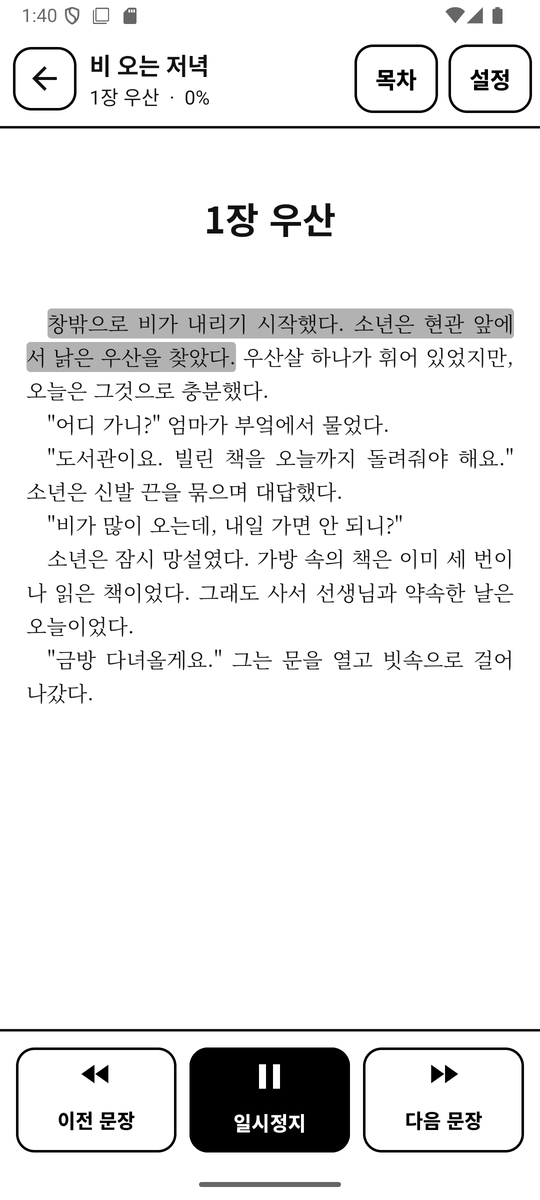
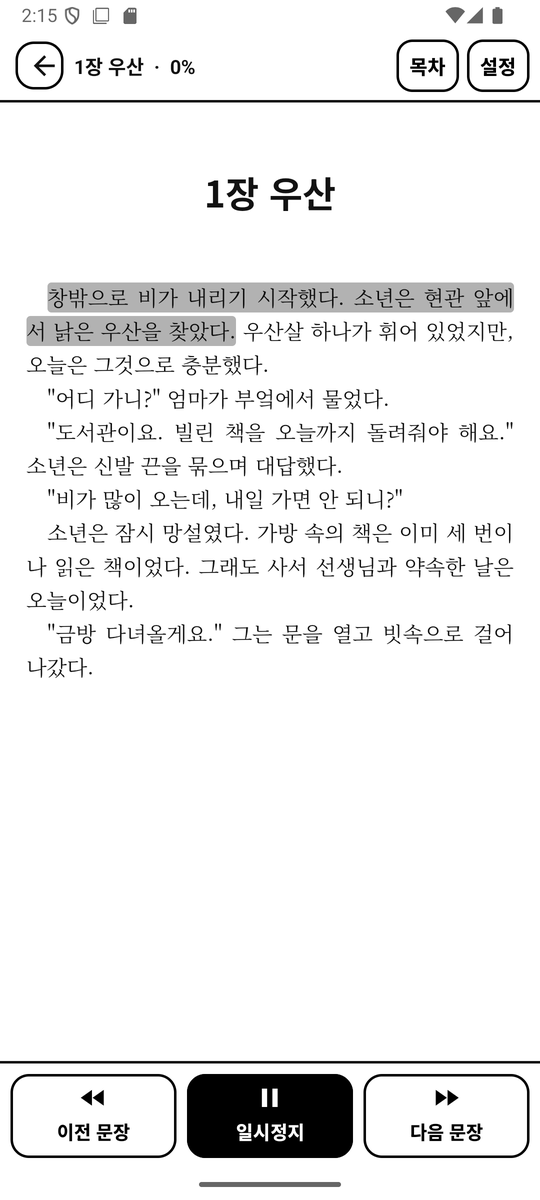
리더: 한 줄 위쪽 바, 들을 때만 재생 바, 스크롤 휠로 넘김, 버튼 정렬 점검, 0.1.3
- 위쪽 바를 72dp 두 줄에서 52dp 한 줄로(← · 장과 진행률 · 듣기 · 목차 · 설정), 책 제목은 뺌
- 아래 재생 바는 재생 중에만 보여 눈으로 읽을 때 본문이 화면 아래까지. 듣기는 위쪽 바로,
  모델을 불러오는 동안 "준비 중…"
- 일시정지하면 하이라이트를 지우고, 직접 넘긴 페이지를 읽던 문장으로 되돌리지 않음
- 페이지 키·방향키는 포커스와 상관없이(막대 버튼 사이를 옮겨 다니지 않게), 스크롤 휠·회전 다이얼·
  마우스 휠(ACTION_SCROLL)도 한 쪽씩 넘김. 한 번 돌릴 때 여러 쪽 넘어가지 않게 250ms에 한 쪽
- 버튼 정렬: 확인 창 버튼이 쌓일 때 붙던 것에 간격, "동의하고 고르기"로 줄여 한 줄에. 확인 창 제목 굵게.
  목차의 지금 장은 앞의 ▶ 대신 굵게 + 끝에 "읽는 중"(줄 시작이 어긋나던 것). 위쪽 바 양옆 여백 8dp
- 문서: 리더·확인 창 스크린샷 12장과 대표 이미지, 설명 갱신

diff --git a/app/src/main/java/app/voicereader/ReaderActivity.kt b/app/src/main/java/app/voicereader/ReaderActivity.kt
@@ -4,16 +4,19 @@ import android.content.res.ColorStateList
 import android.graphics.Color
 import android.media.AudioManager
 import android.os.Bundle
+import android.os.SystemClock
 import android.view.ActionMode
 import android.view.KeyEvent as AndroidKeyEvent
 import android.view.Menu
 import android.view.MenuItem
+import android.view.MotionEvent
 import android.view.View
 import android.widget.LinearLayout
 import android.widget.TextView
 import androidx.appcompat.app.AppCompatActivity
 import androidx.core.graphics.ColorUtils
 import androidx.core.view.WindowInsetsControllerCompat
+import androidx.core.view.isVisible
 import androidx.lifecycle.Lifecycle
 import androidx.lifecycle.lifecycleScope
 import androidx.lifecycle.repeatOnLifecycle
@@ -42,6 +45,16 @@ import org.readium.r2.shared.util.Url
 private val SPEEDS = listOf(0.5, 0.75, 1.0, 1.25, 1.5, 1.75, 2.0)
 private val PAUSES = listOf(60, 150, 320) // ms of silence between sentences: short, normal, long
 private val THEMES = listOf(Theme.LIGHT, Theme.SEPIA, Theme.DARK)
+/** Page keys, and scroll wheels that send arrow keys: true turns forward. */
+private val PAGE_KEYS = mapOf(
+    AndroidKeyEvent.KEYCODE_PAGE_DOWN to true, AndroidKeyEvent.KEYCODE_DPAD_DOWN to true,
+    AndroidKeyEvent.KEYCODE_DPAD_RIGHT to true, AndroidKeyEvent.KEYCODE_NAVIGATE_NEXT to true,
+    AndroidKeyEvent.KEYCODE_SYSTEM_NAVIGATION_DOWN to true,
+    AndroidKeyEvent.KEYCODE_PAGE_UP to false, AndroidKeyEvent.KEYCODE_DPAD_UP to false,
+    AndroidKeyEvent.KEYCODE_DPAD_LEFT to false, AndroidKeyEvent.KEYCODE_NAVIGATE_PREVIOUS to false,
+    AndroidKeyEvent.KEYCODE_SYSTEM_NAVIGATION_UP to false,
+)
+
 private val MEDIA_KEYS = setOf(
     AndroidKeyEvent.KEYCODE_HEADSETHOOK, AndroidKeyEvent.KEYCODE_MEDIA_PLAY, AndroidKeyEvent.KEYCODE_MEDIA_PAUSE,
     AndroidKeyEvent.KEYCODE_MEDIA_PLAY_PAUSE, AndroidKeyEvent.KEYCODE_MEDIA_NEXT, AndroidKeyEvent.KEYCODE_MEDIA_PREVIOUS,
@@ -58,6 +71,7 @@ class ReaderActivity : AppCompatActivity() {
     private val app get() = application as App
     private lateinit var navigator: EpubNavigatorFragment
     private lateinit var topBar: View
+    private lateinit var listen: MaterialButton
 
     /** Adds "발음 고치기" to the text selection menu, next to Copy: long-press a word, fix how it is read. */
     private val selectionActions = object : ActionMode.Callback {
@@ -99,7 +113,6 @@ class ReaderActivity : AppCompatActivity() {
         setContentView(R.layout.reader)
         navigator = supportFragmentManager.findFragmentById(R.id.navigator) as EpubNavigatorFragment
         topBar = findViewById(R.id.topBar)
-        findViewById<TextView>(R.id.bookTitle).text = app.book?.title
         applyPageTheme(app.readerPrefs.theme ?: Theme.LIGHT)
         app.warmUpVoice()
 
@@ -107,13 +120,17 @@ class ReaderActivity : AppCompatActivity() {
         findViewById<View>(R.id.toc).setOnClickListener { showToc() }
         findViewById<View>(R.id.settings).setOnClickListener { showSettings() }
 
-        val play = findViewById<MaterialButton>(R.id.play)
+        listen = findViewById(R.id.listen)
+        val player = findViewById<View>(R.id.player)
+        val playerRule = findViewById<View>(R.id.playerRule)
         val chapter = findViewById<TextView>(R.id.chapter)
-        play.setOnClickListener { togglePlay() }
+        listen.setOnClickListener { togglePlay() }
+        findViewById<View>(R.id.play).setOnClickListener { togglePlay() }
         findViewById<View>(R.id.prev).setOnClickListener { app.tts.value?.skipToPreviousUtterance() }
         findViewById<View>(R.id.next).setOnClickListener { app.tts.value?.skipToNextUtterance() }
 
-        // Taps near the edges and the device's page keys turn pages, without animation. The bars never move.
+        // Taps near the edges turn pages, without animation (page keys and the scroll wheel: dispatchKeyEvent and
+        // dispatchGenericMotionEvent below).
         navigator.addInputListener(DirectionalNavigationAdapter(navigator, animatedTransition = false))
 
         if (savedInstanceState == null && intent.getBooleanExtra(AUTOPLAY, false) && app.tts.value == null) {
@@ -122,14 +139,16 @@ class ReaderActivity : AppCompatActivity() {
 
         lifecycleScope.launch {
             repeatOnLifecycle(Lifecycle.State.STARTED) {
+                val playing = app.tts.flatMapLatest { it?.playback ?: flowOf(null) }
+                    .map { it?.playWhenReady == true }
+                    .distinctUntilChanged()
                 launch {
-                    app.tts.flatMapLatest { it?.playback ?: flowOf(null) }
-                        .map { it?.playWhenReady == true }
-                        .distinctUntilChanged()
-                        .collect { playing ->
-                            play.setIconResource(if (playing) R.drawable.ic_pause else R.drawable.ic_play)
-                            play.text = if (playing) "일시정지" else "듣기"
-                        }
+                    // The player only while listening, so reading by eye gets the whole height; 듣기 sits in the top bar.
+                    playing.collect {
+                        player.isVisible = it
+                        playerRule.isVisible = it
+                        listen.isVisible = !it
+                    }
                 }
                 launch {
                     navigator.currentLocator.collect { locator ->
@@ -144,7 +163,8 @@ class ReaderActivity : AppCompatActivity() {
                 // A jump into another chapter first lands wherever that chapter was pre-laid-out (e.g. its
                 // last page), so re-sync once the navigator reports the new chapter.
                 val chapters = navigator.currentLocator.map { it.href }.distinctUntilChanged()
-                combine(utterances, chapters) { utterance, _ -> utterance }
+                // Only while playing: a paused session neither marks a sentence nor pulls the page back to it.
+                combine(utterances, chapters, playing) { utterance, _, on -> utterance.takeIf { on } }
                     .collect { utterance ->
                         val highlight = utterance?.let {
                             Decoration("tts", it, Decoration.Style.Highlight(tint = getColor(R.color.highlight)))
@@ -157,11 +177,38 @@ class ReaderActivity : AppCompatActivity() {
         }
     }
 
-    /** The page's WebView swallows media keys (earphone buttons) while it has focus; hand them to the TTS session. */
+    /**
+     * Media keys (earphone buttons) go to the TTS session: the page's WebView would swallow them. Page keys turn the
+     * page wherever the focus is: arrow keys would otherwise walk between the bars' buttons.
+     */
     override fun dispatchKeyEvent(event: AndroidKeyEvent): Boolean {
-        if (event.keyCode !in MEDIA_KEYS || app.session == null) return super.dispatchKeyEvent(event)
-        getSystemService(AudioManager::class.java).dispatchMediaKeyEvent(event)
+        if (event.keyCode in MEDIA_KEYS && app.session != null) {
+            getSystemService(AudioManager::class.java).dispatchMediaKeyEvent(event)
+            return true
+        }
+        val forward = PAGE_KEYS[event.keyCode] ?: return super.dispatchKeyEvent(event)
+        if (event.action == AndroidKeyEvent.ACTION_DOWN) turnPage(forward)
         return true
+    }
+
+    /** A scroll wheel, rotary dial or mouse wheel turns pages: down or clockwise is forward. */
+    override fun dispatchGenericMotionEvent(event: MotionEvent): Boolean {
+        if (event.action != MotionEvent.ACTION_SCROLL) return super.dispatchGenericMotionEvent(event)
+        val amount = -event.getAxisValue(MotionEvent.AXIS_VSCROLL) +
+            event.getAxisValue(MotionEvent.AXIS_HSCROLL) + event.getAxisValue(MotionEvent.AXIS_SCROLL)
+        if (amount == 0f) return super.dispatchGenericMotionEvent(event)
+        turnPage(amount > 0)
+        return true
+    }
+
+    private var lastTurn = 0L
+
+    /** One page per notch: a wheel sends a burst of events, and e-ink takes a moment to redraw anyway. */
+    private fun turnPage(forward: Boolean) {
+        val now = SystemClock.uptimeMillis()
+        if (now - lastTurn < 250) return
+        lastTurn = now
+        if (forward) navigator.goForward(animated = false) else navigator.goBackward(animated = false)
     }
 
     override fun onStop() {
@@ -180,7 +227,6 @@ class ReaderActivity : AppCompatActivity() {
         findViewById<View>(R.id.player).setBackgroundColor(page)
         findViewById<View>(R.id.topBarRule).setBackgroundColor(ink)
         findViewById<View>(R.id.playerRule).setBackgroundColor(ink)
-        findViewById<TextView>(R.id.bookTitle).setTextColor(ink)
         findViewById<TextView>(R.id.chapter).setTextColor(ink)
         findViewById<MaterialButton>(R.id.back).apply {
             iconTint = ColorStateList(pressed, intArrayOf(page, ink))
@@ -193,7 +239,14 @@ class ReaderActivity : AppCompatActivity() {
     private fun togglePlay() {
         val nav = app.tts.value
         when {
-            nav == null -> lifecycleScope.launch { app.startTts(navigator.firstVisibleElementLocator()) }
+            nav == null -> lifecycleScope.launch {
+                listen.text = "준비 중…" // loading the voice can take seconds on an e-ink device
+                try {
+                    app.startTts(navigator.firstVisibleElementLocator())
+                } finally {
+                    listen.text = "듣기"
+                }
+            }
             nav.playback.value.playWhenReady -> nav.pause()
             else -> nav.play()
         }

diff --git a/app/src/main/java/app/voicereader/Sheet.kt b/app/src/main/java/app/voicereader/Sheet.kt
@@ -91,7 +91,7 @@ class Sheet(private val context: Context, title: String, hint: String? = null) {
                 orientation = LinearLayout.VERTICAL
                 isDuplicateParentStateEnabled = true
                 layoutParams = LinearLayout.LayoutParams(0, LinearLayout.LayoutParams.WRAP_CONTENT, 1f)
-                addView(text(if (current) "▶  $title" else title, R.style.Text_Body).apply {
+                addView(text(title, R.style.Text_Body).apply {
                     setTextColor(context.getColorStateList(R.color.row_fg))
                     isDuplicateParentStateEnabled = true
                     if (current || checked) setTypeface(typeface, Typeface.BOLD)
@@ -103,6 +103,14 @@ class Sheet(private val context: Context, title: String, hint: String? = null) {
                     })
                 }
             })
+            if (current) {
+                // Marked at the end, not with a prefix: a "▶ " pushed this row's text out of line with the others.
+                addView(text("읽는 중", R.style.Text_Caption).apply {
+                    setTextColor(context.getColorStateList(R.color.row_fg_muted))
+                    isDuplicateParentStateEnabled = true
+                    setPadding(context.dp(8), 0, 0, 0)
+                })
+            }
             if (checked) {
                 addView(ImageView(context).apply {
                     setImageResource(R.drawable.ic_check)

diff --git a/app/src/main/java/app/voicereader/LibraryActivity.kt b/app/src/main/java/app/voicereader/LibraryActivity.kt
@@ -408,7 +408,7 @@ class LibraryActivity : AppCompatActivity() {
                 "본인의 목소리이거나, 화자에게 이 앱에서 쓰는 것에 대해 명시적인 동의를 받은 목소리만 가져올 수 있어요.\n\n" +
                     "실존 인물(성우·배우·가수 등)의 목소리를 동의 없이 복제한 음성 팩이나 목소리 파일은 가져오지 마세요.",
             )
-            .setPositiveButton("동의하고 파일 고르기") { _, _ -> then() }
+            .setPositiveButton("동의하고 고르기") { _, _ -> then() }
             .setNegativeButton("취소", null)
             .show()
     }

diff --git a/docs/guide.md b/docs/guide.md
@@ -56,8 +56,8 @@
 ## 3. 듣기: 이어 듣기, 화면 끄고 듣기
 
 1. 서재의 **이어 듣기** 카드에서 ▶ 를 누르면 마지막으로 듣던 곳부터 바로 읽습니다.
-   책을 열어 듣고 싶으면 표지를 누르고, 아래 재생 바의 **듣기**를 누릅니다.
-2. 읽는 문장이 회색으로 칠해지고, 페이지는 저절로 넘어갑니다. **이전 문장** · **다음 문장**으로 한 문장씩 옮겨 갑니다. 위쪽 바에는 지금 장과 진행률이 보입니다.
+   책을 열어 듣고 싶으면 표지를 누르고, 위쪽 바의 **듣기**를 누릅니다. 듣는 동안 아래에 재생 바가 나타납니다.
+2. 읽는 문장이 회색으로 칠해지고, 페이지는 저절로 넘어갑니다. **이전 문장** · **다음 문장**으로 한 문장씩 옮겨 갑니다. **일시정지**하면 재생 바와 하이라이트가 사라져 눈으로 읽기 편하고, 위쪽 바의 **듣기**로 이어 듣습니다.
 3. 화면을 끄거나 다른 앱으로 가도 계속 읽습니다. 알림과 잠금화면의 재생 버튼, 이어폰 버튼으로 일시정지·재생하고, 알림의 |◀ ▶| 로 이전·다음 장으로 갑니다.
 
 읽는 위치는 몇 초마다 저장되므로, 다음에 열면 그 자리부터 이어집니다.

diff --git a/README.md b/README.md
@@ -55,7 +55,8 @@ Android 8.0 이상, arm64 기기에서 동작합니다.
 **읽기**
 - [Readium](https://readium.org/) 기반 본문 표시, 목차, 이어 읽기.
 - 테마(라이트·세피아·다크), 글꼴(명조·고딕), 글자 크기, 줄 간격.
-- 위쪽 바(책 제목, 장, 진행률)와 아래 재생 바(이전 문장 · 듣기 · 다음 문장)는 늘 같은 자리에 있고 본문을 가리지 않습니다. 가장자리 탭과 기기 페이지 버튼으로 넘김.
+- 위쪽은 한 줄 바(장과 진행률, 듣기 · 목차 · 설정)뿐이고 본문을 가리지 않습니다. 아래 재생 바(이전 문장 · 일시정지 · 다음 문장)는 듣는 동안에만 나타나, 눈으로 읽을 때는 화면 전체가 본문입니다.
+- 가장자리 탭, 기기의 페이지 버튼과 스크롤 휠(회전 다이얼)로 한 쪽씩 넘깁니다.
 
 **낭독**
 - 기기 기본 TTS, 또는 Supertonic 음성 팩([Supertonic](https://huggingface.co/Supertone) · [sherpa-onnx](https://github.com/k2-fsa/sherpa-onnx), 기기 안에서 합성). 음성 팩은 앱에서 바로 받거나 zip으로 가져옵니다.
